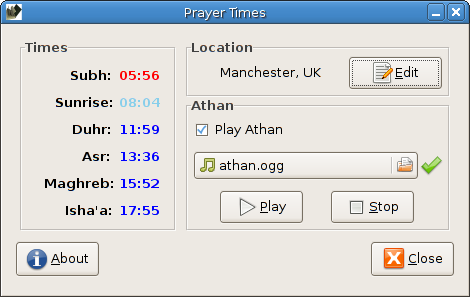
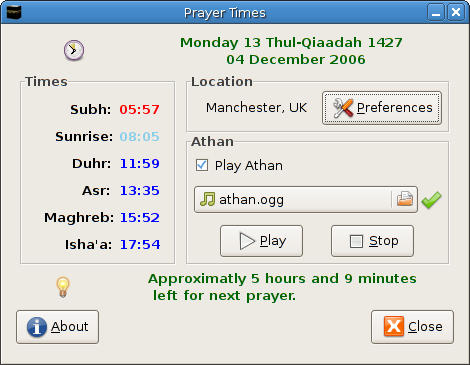
The application is now ready for the GMT guys. Please test
git-svn-id: https://svn.arabeyes.org/svn/projects/trunk/itl/programs/minbar@1977 b7dd3e64-9a96-433d-bc4c-c23e47d23892

diff --git a/main.c b/main.c
@@ -2,6 +2,7 @@
 #include <gconf/gconf-client.h>
 #include <glade/glade.h>
 #include <itl/prayer.h>
+#include <itl/hijri.h>
 #include <gst/gst.h>
 #include "main.h"
 #include "prefs.h"
@@ -15,7 +16,7 @@ static gfloat 		lon;
 static gchar 		* city_name;
 static gboolean 	enable_athan;
 
-static int 		current_prayer_id = -1;
+static int 		next_prayer_id = -1;
 
 /* for prayer.h functions */
 static Date 		* prayerDate;
@@ -36,6 +37,69 @@ static GtkFileFilter 	*filter_supported;
 
 /* tray icon */
 static GtkStatusIcon   	* status_icon;	
+static GDate		* currentDate;
+
+sDate 			* hijri_date;
+
+/* TODO localise */
+gchar * hijri_month[13] = {"skip",
+                      "Muharram", "Safar", "Rabi I", "Rabi II",
+                      "Jumada I", "Jumada II", "Rajab", "Shaaban",
+                      "Ramadan", "Shawwal", "Thul-Qiaadah", "Thul-Hijja"};
+
+void update_remaining();
+void update_remaining()
+{
+	/* converts times to minutes */
+	int next_minutes = ptList[next_prayer_id].minute + ptList[next_prayer_id].hour*60;
+	time_t 	result;
+	struct 	tm * curtime;
+	
+	result 	= time(NULL);
+	curtime = localtime(&result);
+	int cur_minutes = curtime->tm_min + curtime->tm_hour * 60; 
+	if(ptList[next_prayer_id].hour < curtime->tm_hour)
+	{
+		/* salat is on next day (subh) after midnight */
+		next_minutes += 60*24;
+	}
+
+	int difference = next_minutes - cur_minutes;
+	int hours = difference / 60;
+	int minutes = difference % 60;
+
+	gchar * remainString;
+	remainString = g_malloc(400);
+	g_snprintf(remainString, 400, 
+			"%sApproximatly %d hours and %d minutes\n left for next prayer.%s", 
+			REMAIN_MARKUP_START, hours, minutes, 
+			REMAIN_MARKUP_END);
+	gtk_label_set_markup((GtkLabel *) glade_xml_get_widget(xml, 
+				"timeleftlabel"), remainString);
+	g_free(remainString);
+}
+
+void update_date_label();
+void update_date_label()
+{
+	gchar * dayString, * miladiString, * dateString;
+	miladiString 	= g_malloc(200);
+	dateString 	= g_malloc(500);
+	dayString      = g_malloc(100);
+	g_date_strftime (miladiString, 300, "%d %B %G", currentDate );
+	g_date_strftime (dayString, 100, "%A", currentDate );
+
+	hijri_date 	= g_malloc(sizeof(sDate));
+	h_date(hijri_date, prayerDate->day, prayerDate->month, prayerDate->year);
+	g_snprintf(dateString, 500, "%s%s %d %s %d \n %s%s", DATE_MARKUP_START, dayString, hijri_date->day,
+	       	hijri_month[hijri_date->month], hijri_date->year, miladiString, DATE_MARKUP_END);
+
+	gtk_label_set_markup((GtkLabel *)glade_xml_get_widget(xml, 
+				"currentdatelabel"), dateString);
+	g_free(dateString);
+	g_free(miladiString);	
+	g_free(dayString);	
+}
 
 void calculate_prayer_table()
 {
@@ -43,7 +107,9 @@ void calculate_prayer_table()
 	loc->degreeLat 		= lat;
 	loc->degreeLong 	= lon;	
 	getPrayerTimes (loc, calcMethod, prayerDate, ptList);
-	current_prayer();
+	next_prayer();
+	update_remaining();
+
 }
 
 void play_athan_at_prayer()
@@ -64,52 +130,49 @@ void play_athan_at_prayer()
 			return;
 		}
 	}
+	g_free(curtime);
 }
 
-void current_prayer()
+void next_prayer()
 {	
 	/* current time */
 	time_t result;
 	struct tm * curtime;
 	result = time(NULL);
 	curtime = localtime(&result);
-	
+
 	int i;
 	for (i = 0; i < 6; i++)
 	{
 		if ( i == 1 ) { continue ;} /* skip shorouk */
-		current_prayer_id = (i==0) ? 5 : i-1;
-		current_prayer_id = (i==2) ? 0 : i-1;
+		next_prayer_id = i;
 		if(ptList[i].hour > curtime->tm_hour || 
 		  	(ptList[i].hour == curtime->tm_hour && 
 		   	ptList[i].minute >= curtime->tm_min))
 		{
-
 			return;
 		}
 	}
-	
-	/* time is after midnight and before subh, so set to Isha */
 
-	current_prayer_id = 5;
+	next_prayer_id = 0;	
 }
 
 void update_date()
 {
 	GTimeVal * curtime 	= g_malloc(sizeof(GTimeVal));
-	prayerDate 		= g_malloc(sizeof(Date));
 
-	GDate * currentDate = g_date_new();
+	currentDate = g_date_new();
 	g_get_current_time(curtime);
 	g_date_set_time_val(currentDate, curtime);
 	g_free(curtime);
 
 	/* Setting current day */
-	prayerDate = g_malloc(sizeof(Date));
-	prayerDate->day = g_date_get_day(currentDate);
-	prayerDate->month = g_date_get_month(currentDate);
-	prayerDate->year = g_date_get_year(currentDate);
-
+	prayerDate 		= g_malloc(sizeof(Date));
+	prayerDate->day 	= g_date_get_day(currentDate);
+	prayerDate->month 	= g_date_get_month(currentDate);
+	prayerDate->year 	= g_date_get_year(currentDate);
+		
+	update_date_label();
 	g_free(currentDate);
 }
 
@@ -132,7 +195,7 @@ void update_prayer_labels()
 				MARKUP_FAINT_START, ptList[i].hour, 
 				ptList[i].minute, MARKUP_FAINT_END);
 		}
-		else if ( i == current_prayer_id)
+		else if ( i == next_prayer_id)
 		{
 			g_snprintf(timestring, 50, "%s%02d:%02d%s", 
 				MARKUP_SPECIAL_START, ptList[i].hour, 
@@ -452,12 +515,12 @@ void new_pad (GstElement *element,
 int init_pipelines()
 {
 	/* create elements */
-	pipeline = gst_pipeline_new ("audio-player");
-	source = gst_element_factory_make ("filesrc", "file-source");
-	parser = gst_element_factory_make ("oggdemux", "ogg-parser");
-	decoder = gst_element_factory_make ("vorbisdec", "vorbis-decoder");
-	conv = gst_element_factory_make ("audioconvert", "converter");
-	sink = gst_element_factory_make ("alsasink", "alsa-output");
+	pipeline 	= gst_pipeline_new ("audio-player");
+	source 		= gst_element_factory_make ("filesrc", "file-source");
+	parser 		= gst_element_factory_make ("oggdemux", "ogg-parser");
+	decoder 	= gst_element_factory_make ("vorbisdec", "vorbis-decoder");
+	conv 		= gst_element_factory_make ("audioconvert", "converter");
+	sink 		= gst_element_factory_make ("alsasink", "alsa-output");
 	if (!pipeline || !source || !parser || !decoder || !conv || !sink) {
 		g_print ("One element could not be created\n");
 		return -1;
@@ -509,7 +572,8 @@ void quit_callback ( GtkWidget *widget, gpointer data)
 {
 	/* TODO cleanup? prefs? */
 	gtk_main_quit();
-}	
+}
+
 void tray_icon_right_clicked_callback ( GtkWidget *widget, gpointer data)
 {
 	GtkMenu * popup_menu = (GtkMenu * )(glade_xml_get_widget(xml, "traypopup")); 
@@ -537,7 +601,7 @@ void tray_icon_clicked_callback ( GtkWidget *widget, gpointer data)
 void close_callback( GtkWidget *widget,
 	    gpointer data)
 {
-	    gtk_widget_hide(glade_xml_get_widget(xml, "mainWindow"));
+		gtk_widget_hide(glade_xml_get_widget(xml, "mainWindow"));
 }
 
 

diff --git a/main.h b/main.h
@@ -1,7 +1,7 @@
 /* Functions */ 
 void 		calculate_prayer_table();
 void 		play_athan_at_prayer();
-void		current_prayer();
+void		next_prayer();
 void 		update_date();
 void 		update_prayer_labels();
 gboolean 	update_interval(gpointer data);
